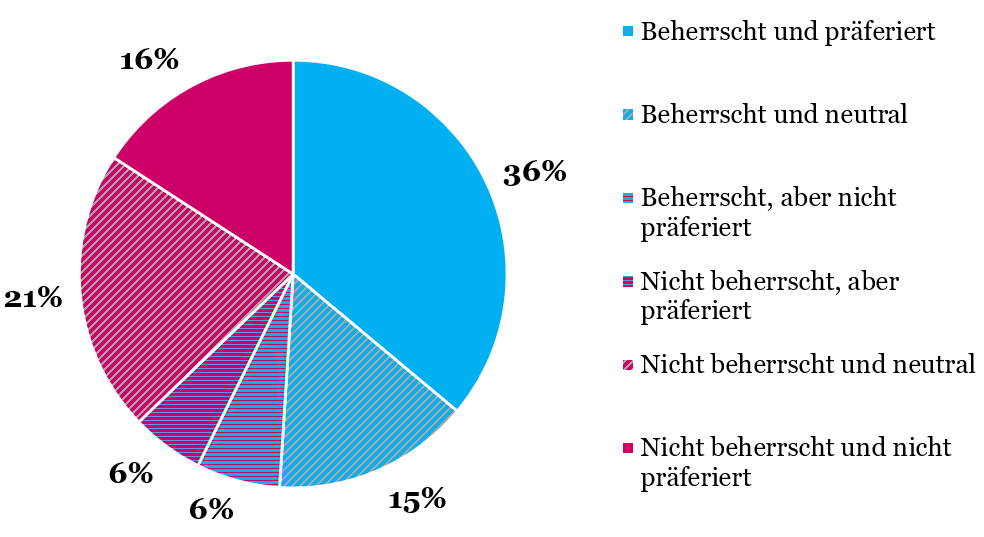
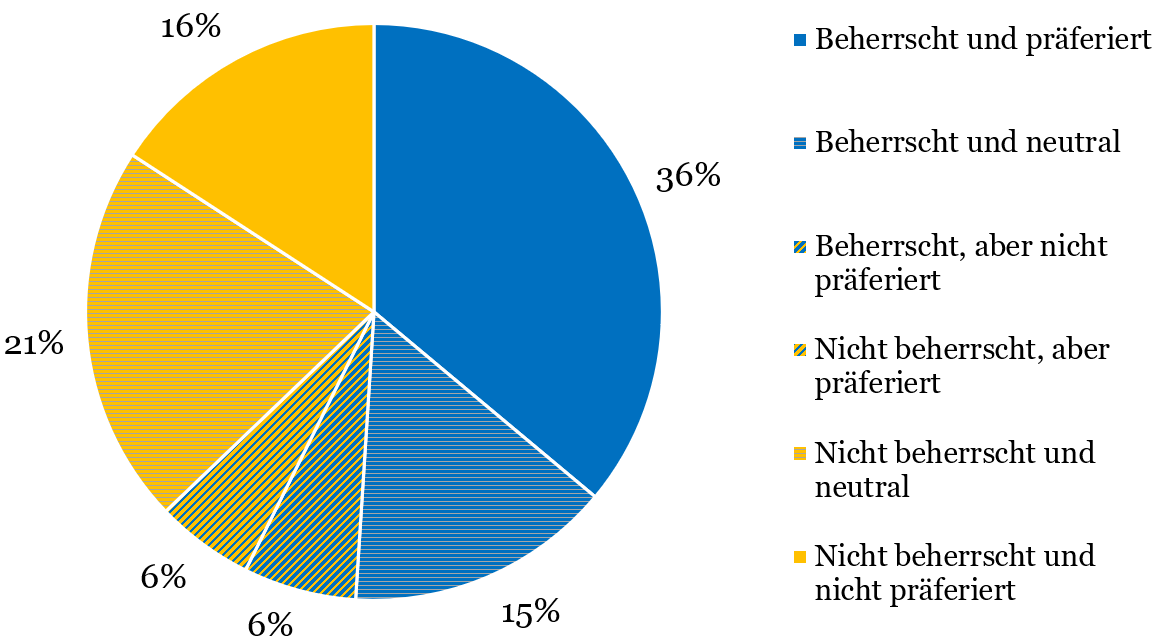
Weiterführen ergebnisse

diff --git a/chapters/ergebnisse.tex b/chapters/ergebnisse.tex
@@ -33,7 +33,7 @@ Der orange hinterlegte Bereich illustriert den Anteil der übrigen Fähigkeiten,
 
 \begin{figure}
     \centering
-	\includegraphics[width=0.9\textwidth]{gfx/verteilung-f-p.png}
+	\includegraphics[width=1.0\textwidth]{gfx/verteilung-f-p.png}
 	\caption[Durchschnittliche Verteilung der Fähigkeiten und Präferenzen je Mitarbeitenden]{Durchschnittliche Verteilung der Fähigkeiten und Präferenzen je Mitarbeitenden}
 	\label{fig:ergebnisse:abb1}
 \end{figure}
@@ -53,7 +53,7 @@ Die prozentuale Verteilung der Fähigkeiten und Präferenzen ist in Abbildung \r
 
 \begin{figure}
     \centering
-	\includegraphics[width=0.9\textwidth]{gfx/verteilung-f-p-nach-projekt.png}
+	\includegraphics[width=0.95\textwidth]{gfx/verteilung-f-p-nach-projekt.png}
 	\caption[Verteilung der Fähigkeiten und Präferenzen nach Projekt]{Verteilung der Fähigkeiten und Präferenzen nach Projekt}
 	\label{fig:ergebnisse:abb2}
 \end{figure}
@@ -64,35 +64,106 @@ So geht aus der Abbildung hervor, dass Projekt 5 mit 48 Prozent die meisten Proj
 Damit liegt die Verteilung der beherrschten und präferierten Fähigkeiten bei Projekt 5 um  12 Prozentpunkte über der Ursprungsverteilung.
 Im Gegensatz dazu enthält Projekt 1 mit 32 Prozent die wenigsten Projektpositionen, die von den Befragten als beherrscht und präferiert angegeben wurden.
 Diese Verteilung weicht jedoch lediglich um 4 Prozentpunkte von der Ursprungsverteilung ab.
-Auch der Anteil der Projektpositionen, die Mitarbeitende nicht beherrschen und auch in zukünftigen Projekten nicht anwenden wollen ist in Projekt 1 mit 16 Prozent im Vergleich zu den anderen Projekten am zweithöchsten (pink markierter Balken).
+Auch der Anteil der Projektpositionen, die Mitarbeitende nicht beherrschen und auch in zukünftigen Projekten nicht anwenden wollen ist in Projekt 1 mit 16 Prozent im Vergleich zu den anderen Projekten am zweithöchsten (gelb markierter Balken).
 Lediglich Projekt 3 weist mit 18 Prozent mehr Projektpositionen auf, die Mitarbeitende nicht beherrschen und nicht präferieren.
-Der Anteil an Projektpositionen, die Mitarbeitende nicht beherrschen und in denen sie der Option, diese zukünftig in Projekten anzuwenden neutral gegenüberstehen, ist dafür in Projekt 1 mit 25 Prozent am höchsten (pink markierter Balken mit grauer Schraffierung).
+Der Anteil an Projektpositionen, die Mitarbeitende nicht beherrschen und in denen sie der Option, diese zukünftig in Projekten anzuwenden neutral gegenüberstehen, ist dafür in Projekt 1 mit 25 Prozent am höchsten (gelb markierter Balken mit grauer Schraffierung).
 Insgesamt weist Projekt 2 den nierdrigsten Anteil an Projektpositionen auf, die Mitarbeitende nicht beherrschen und nicht präferieren.
 Dieser liegt mit 12 Prozent 4 Prozentpunkte unter der Ursprungsverteilung.
 % Erklärungen für die schwankunen in den Verteilungen in Diskussion anführen -> Erklärung bspw., dass projekte untersch. viele fähigkeiten anfragen und teilweise sehr generisch und am bsp. von projekt 1 sehr spezifisch (bsp. Camunda, welches die fähigkeit ist, die am wenigsten MA beherrschen) (siehe oben auskommentierter text)
 % Hier anführen, dass das darauf zurückzuführen sein kann, dass projekt 1 als einziges 12 fähigkeiten verlangt
 
-Bezogen auf die Zufriedenheit gaben die Mitarbeitenden mit 146 von insgesamt 270 Bewertungen (54 Probanden \`{a} je 5 Beispielprojekte) bei mehr als der Hälfte der Optionen an, mit einem Beispielprojekt nicht zufrieden zu sein (Anteile "Gar nicht zufrieden" und "Weniger zufrieden").
+Hinsichtlich der Zufriedenheit gaben die Mitarbeitenden mit 146 von insgesamt 270 Bewertungen (54 Probanden \`{a} je 5 Beispielprojekte) bei mehr als der Hälfte der Optionen an, mit einem Beispielprojekt nicht zufrieden zu sein (Anteile "Gar nicht zufrieden" und "Weniger zufrieden").
 Darüber hinaus wurde die Bewertung "Voll und ganz zufrieden" mit 43 Bewertungen am wenigsten von den Befragten angegeben.
 Am häufigsten gaben die Mitarbeitenden an mit einem Beispielprojekt gar nicht zufrieden zu sein (83 Bewertungen).
-In Abbildung \ref{fig:ergebnisse:abb3} ist die Zufriedenheit der Mitarbeitenden anhand der einzelnen Projekte anteilig abgebildet.
-Daraus geht hervor, dass die Mitarbeitenden mit insgesamt 55 Prozent am häufigsten angaben mit Projekt 4 zufrieden zu sein (blauer und grüner Balken).
+
+In Abbildung \ref{fig:ergebnisse:abb3} ist die Zufriedenheit der Mitarbeitenden anhand der einzelnen Projekte abgebildet.
+Daraus geht hervor, dass die Mitarbeitenden mit insgesamt 55 Prozent am häufigsten angaben mit Projekt 4 zufrieden zu sein (Anteile "Eher zufrieden" und "Voll und ganz zufrieden").
 Im Gegensatz waren die Befragten mit Projekt 3 am wenigsten zufrieden.
 Der Anteil der zufriedenen Mitarbeitenden lag hier bei 31 Prozent.
-Verglichen mit der Verteilung der Fähigkeiten und Präferenzen in Abbildung \ref{fig:ergebnisse:abb2} fällt auf, dass bei Projekt 3 auch der Anteil der Fähigkeiten, die von den Mitarbeitenden nicht präferiert wurden mit 26 Prozent am höchsten ausfiel (blau hinterlegter Balken mit pinker Schraffur und pink markierter Balken).
-% HIER WEITERMACHEN
+Verglichen mit der Verteilung der Fähigkeiten und Präferenzen in Abbildung \ref{fig:ergebnisse:abb2} fällt auf, dass bei Projekt 3 auch der Anteil der Fähigkeiten, die von den Mitarbeitenden nicht präferiert wurden mit 26 Prozent am höchsten ausfiel (blau hinterlegter Balken mit gelber Schraffur und gelb markierter Balken).
 
-\begin{figure}
+\begin{figure}[H]
     \centering
-	\includegraphics[width=0.9\textwidth]{gfx/verteilung-z-nach-projekt.png}
+	\includegraphics[width=0.95\textwidth]{gfx/verteilung-z-nach-projekt.png}
 	\caption[Zufriedenheit der Mitarbeitenden nach Projekt]{Zufriedenheit der Mitarbeitenden nach Projekt}
 	\label{fig:ergebnisse:abb3}
 \end{figure}
 
-Dann ansehen wie Zufrieden die MA mit projekten sind
-und wie die ma fähigkeiten je projekt besitzen
+Im Zusammenhang mit der angegebenen Zufriedenheit der Mitarbeitenden wurde außerdem untersucht, wie sehr die angegebenen Präferenzen der Mitarbeitenden mit den angeforderten Projektpositionen übereinstimmen.
+Abbildung \ref{fig:ergebnisse:abb4} zeigt die Verteilung der Mitarbeitenden anhand der Rate der Übereinstimmung ihrer Präferenzen mit den angeforderten Projektpositionen nach Projekt.
+Ein Histogramm bildet je Intervall die Anzahl der Mitarbeitenden ab, deren Rate der Übereinstimmung in das jeweilige Intervall fällt.
+Den Verteilungen ist zu entnehmen, dass die höchsten Übereinstimmung der Präferenzen der Mitarbeitenden mit den Projektpositionen bei Projekt 2 und Projekt 5 erreicht wurden.
+Die Anzahl der Befragten, die eine Übereinstimmung über 80 Prozent erreichten lag hier je Projekt bei 13 Mitarbeitenden.
+Insgesamt ist die Anzahl der Mitarbeitenden, die eine mittlere bis hohe Übereinstimmung aufwiesen (Rate der Übereinstimmung größer 40 Prozent) bei Projekt 5 mit 39 Befragten am höchsten.
+
+\begin{figure}[H]
+    \centering
+    \subfloat[Projekt 1]{\includegraphics[width=0.5\textwidth]{gfx/verteilung-p-z-hist-p1.png}\label{fig:ergebnisse:abb4:1}}
+    \subfloat[Projekt 2]{\includegraphics[width=0.5\textwidth]{gfx/verteilung-p-z-hist-p2.png}\label{fig:ergebnisse:abb4:2}}\\
+    \subfloat[Projekt 3]{\includegraphics[width=0.5\textwidth]{gfx/verteilung-p-z-hist-p3.png}\label{fig:ergebnisse:abb4:3}}
+    \subfloat[Projekt 4]{\includegraphics[width=0.5\textwidth]{gfx/verteilung-p-z-hist-p4.png}\label{fig:ergebnisse:abb4:4}}\\
+    \subfloat[Projekt 5]{\includegraphics[width=0.5\textwidth]{gfx/verteilung-p-z-hist-p5.png}\label{fig:ergebnisse:abb4:5}}\\
+\caption[Übereinstimmung der Präferenzen der Mitarbeitenden und angeforderten Projektpositionen nach Projekt]{Übereinstimmung der Präferenzen der Mitarbeitenden und angeforderten Projektpositionen nach Projekt}
+  \label{fig:ergebnisse:abb4}
+\end{figure}
+
+Trotz der hohen Übereinstimmung der Präferenzen mit den angeforderten Projektpositionen von Projekt 5 fällt bei Betrachtung von Abbildung \ref{fig:ergebnisse:abb3} auf, dass bei der Befragung der Zufriedenheit lediglich 35 Prozent der Befragten angaben mit dem Projekt 5 zufrieden zu sein.
+Im Verhältnis zu den anderen Projekten ist Projekt 5 hinsichtlich der angegebenen Zufriedenheit der Mitarbeitenden damit das Projekt mit der zweitkleinsten Anzahl zufriedener Befragter.
+Weiter ist zu erkennen, dass Projekt 4 zwar bei der Befragung der Zufriedenheit die höchste Anzahl an zufriedenen Mitarbeitenden aufwies ($\approx$ 30 Befragte), in der Übereinstimmung der Präferenzen jedoch im Vergleich am zweitwenigsten Mitarbeitende eine Übereinstimmung über 40 Prozent aufwiesen.
+Darüber hinaus liegt die Anzahl an Mitarbeitenden mit einer Übereinstimmung der Präferenzen unter (inkl.) 20 Prozent bei Projekt 4 mit 23 Befragten mit Abstand am höchsten.
+% Hier wieder bei diskussion die  schwankung erklären -> annahme, dass das mit der ANzahl der angeforderten Projektpositionen zusammenhängt!
 
 \section{Überblick Befragung der Manager}
+An der Befragung der Manager haben insgesamt vier Manager des Teams Java Enterprise Solutions teilgenommen.
+Im Durchschnitt gab jeder Manager je Projekt 7 Mitarbeitende an, wobei individuell hohe Schwankungen zwischen den Anzahlen der Mitarbeitenden zu erkennen waren.
+So gab der Manager, der projektübergreifend die meisten Mitarbeitenden nannte, insgesamt 66 Mitarbeitende an, während der Manager, der projektübergreifend die wenigsten Mitarbeitenden nannte, insgesamt nur 16 Mitarbeitende angab.
+
+In Abbildung \ref{fig:ergebnisse:abb5} ist die Anzahl der Mitarbeitenden mit zu erwartend hoher Arbeitsleistung je Projekt dargestellt.
+
+\begin{figure}[H]
+    \centering
+	\includegraphics[width=0.9\textwidth]{gfx/verteilung-m-prod.png}
+	\caption[Mitarbeitende mit zu erwartender hoher Arbeitsleistung nach Projekt]{Mitarbeitende mit zu erwartender hoher Arbeitsleistung nach Projekt}
+	\label{fig:ergebnisse:abb5}
+\end{figure}
+
+Aus Abbildung \ref{fig:ergebnisse:abb5} geht hervor, dass die Befragten projektübergreifen dmit 56 Angaben bei Projekt 1 am meisten Mitarbeitende angegeben haben (dunkelorangener Balken).
+Neben der Anzahl der Mitarbeitenden mit zu erwartend hoher Arbeitsleistung ist in dem Diagramm auch die Anzahl der Mitarbeitenden nach Reduktion der mehrfach genannten Mitarbeitenden (d.h. ohne Duplikate) abgetragen.
+Die Anzahl nach Entfernung der mehrfach genannten Mitarbeitenden reduziert sich bei Projekt 1 auf weniger als die Hälfte (26 Mitarbeitende, hellorangener Balken).
+Eine solche Diskrepanz zwischen der Anzahl an genannten Mitarbeitenden und der Anzahl der Mitarbeitenden ohne Duplikate weist darauf hin, dass die einzelnen Manager in dem betroffenen Projekt überwiegend diesselben Mitarbeitenden ausgewählt haben.
+
+Hinsichtlich der zu erwartenden Arbeitsleistung der Mitarbeitenden wurde des Weiteren betrachtet, wie sehr die angegebenen Fähigkeiten der Mitarbeitenden aus der Mitarbeiterbefragung mit den angeforderten Projektpositionen übereinstimmen.
+Die Verteilung der Mitarbeitenden anhand der Rate der Übereinstimmung ihrer Präferenzen mit den angeforderten Projektpositionen ist in Abbildung \ref{fig:ergebnisse:abb7} je Projekt dargestellt.
+Analog zu den Histogrammen aus Abbildung \ref{fig:ergebnisse:abb4}, bildet jedes Histogramm je Intervall die Anzahl der Mitarbeitenden ab, deren Rate der Übereinstimmung in das jeweilige Intervall fällt.
+% HIER WEITERMACHEN!!! 
+
+\begin{figure}[H]
+    \centering
+    \subfloat[Projekt 1]{\includegraphics[width=0.5\textwidth]{gfx/verteilung-f-p-hist-p1.png}\label{fig:ergebnisse:abb7:1}}
+    \subfloat[Projekt 2]{\includegraphics[width=0.5\textwidth]{gfx/verteilung-f-p-hist-p2.png}\label{fig:ergebnisse:abb7:2}}\\
+    \subfloat[Projekt 3]{\includegraphics[width=0.5\textwidth]{gfx/verteilung-f-p-hist-p3.png}\label{fig:ergebnisse:abb7:3}}
+    \subfloat[Projekt 4]{\includegraphics[width=0.5\textwidth]{gfx/verteilung-f-p-hist-p4.png}\label{fig:ergebnisse:abb7:4}}\\
+    \subfloat[Projekt 5]{\includegraphics[width=0.5\textwidth]{gfx/verteilung-f-p-hist-p5.png}\label{fig:ergebnisse:abb7:5}}\\
+\caption[Übereinstimmung der der Fähigkeiten eines Mitarbeitenden mit den angeforderten Projektpositionen nach Projekt]{Übereinstimmung der Fähigkeiten eines Mitarbeitenden mit den angeforderten Projektpositionen nach Projekt}
+  \label{fig:ergebnisse:abb7}
+\end{figure}
+
+% !!!! Achtung histogramm 3! kein wert kleiner 0,19 und größer 0,88 vorhanden, daher komische skala
+
+% Weitermachen mit Befragung der Manager und auswertung,
+% dann übergehen zu evaluation des algorithmus im vgl. zu dem unilateralen alg.
+
+
+% Abbildung \ref{fig:ergebnisse:abb6} stellt die mittlere Übereinstimmung der Fähigkeiten der Mitarbeitenden mit den angeforderten Projektpositionen je Projekt dar.
+% In dem Diagramm ist die durchschnittliche Übereinstimmung der Fähigkeiten eines Mitarbeitenden mit den angeforderten Projektpositionen als Liniendiagramm dargestellt.
+% Die Standardabweichung vom Mittelwert ist als Balkendiagramm abgebildet.
+
+% \begin{figure}[H]
+%     \centering
+% 	\includegraphics[width=0.9\textwidth]{gfx/durchschnitt-übereinstimmung-f-pr.png}
+% 	\caption[Durchschnittliche Übereinstimmung der Fähigkeiten eines Mitarbeitenden mit den angeforderten Projektpositionen nach Projekt]{Durchschnittliche Übereinstimmung der Fähigkeiten eines Mitarbeitenden mit den angeforderten Projektpositionen nach Projekt}
+% 	\label{fig:ergebnisse:abb6}
+% \end{figure}
 
 \section{Evaluation des Algorithmus}
 

diff --git a/chapters/diskussion.tex b/chapters/diskussion.tex
@@ -6,6 +6,8 @@
 \chapter{Diskussion}
 \label{ch:diskussion}
 
+% Für die diskussion bzgl. der ergebnisse bei den ergebnissen auf kommentare achten!
+
 % Fragen:
 % \begin{itemize}
 %     \item Was sind Randfälle? Bspw. 0.9 anforderungs-fähigkeiten-fit und 0.1 bedürfnisse-angebot-fit. Wenn der PJ fit nicht ganz erfüllt ist, geht es dann trotzdem vor weiterhin die MA-Präferenzen zu berücksichtigen, unter der Prämisse, dass dann ggf. skills eingespart werdne müssen, oder gilt das nur, wenn sowieso alle die skills erfüllen? Was sind realistische Randbedingungen? -> habe ich dann lieber MA, die unzufrieden sind, oder Projekte, die nicht gestafft werden können?
